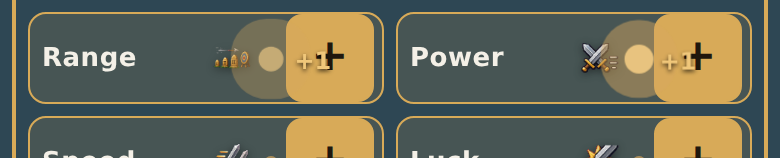
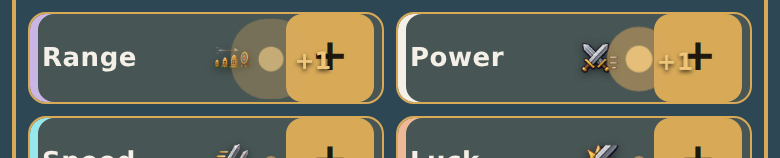
v2.3.2597: a colour per stat, carried where a pastel survives
Owner: "I'm interested to see how each cell being colored by meaning would look.
Like power is always white, range is always purple ... pastel-like colors", with
eight fixed: Power white, Range purple, HP red, MP blue, Stamina green, Defense
gray, Dodge yellow, Resist pink.  A stat's colour names the STAT, not the
weapon, so Power is the same white in Melee, Bow and Magic.

THE OTHER FIVE WERE SEARCHED, NOT PICKED.  By eye, Range and Special landed 8.5
apart on a floor of 12.  By maximin over a pastel grid (palette-opt.mjs) only
TWO of the 78 pairs fall under the floor and both are between colours the owner
fixed — Power/Defense 10.8 (white against gray) and Range/Resist 11.6 (purple
against pink).  Neither is mine to move, so both are reported rather than
re-tinted; palette-fix.mjs says what clearing them would take, and that no
single colour can do it alone.

AND IT IS NOT A CELL FILL, which is the finding that shaped the whole feature.
This UI is dark (#16262C) under near-white text, so a pastel must be composited,
and over()'s own docstring states the cost: "two colours drawn at the same alpha
over the same background keep exactly `alpha` of the distance between them".
Measured with the repo's own deltaE00 — alpha 0.50: 14 of 78 pairs under the
floor; 0.35: 31; 0.25: 41; 0.15, the alpha accentFill already uses: 70 of 78.
The palette is simply gone.  Worse, the two requirements pull opposite ways: at
[…]

diff --git a/src/data/prog3.js b/src/data/prog3.js
@@ -158,17 +158,17 @@ export const PROG3_LEGACY_ATK = {
    report.  `capsProg3Shared` rows exist only on a worker carrying the
    folded grid; `legacyOnly` rows exist only on one that does not. */
 export const PROG3_ATK_META = [
-  { key: 'range',   label: 'Range',     perText: '+0.5% reach',                        pct: true, unit: '% farther',        iconSrc: '/icons/ui/t2/bow-longshot.webp?v=2.3.2592',     capsProg3Shared: true, dpsNote: 'reach, not damage' },
-  { key: 'dmg',     label: 'Power',     perText: '+0.5 damage per hit',                unit: ' dmg',                        iconSrc: '/icons/ui/hero/dps.webp?v=2.3.2199',            capsProg3x: true },
+  { key: 'range',   label: 'Range',     perText: '+0.5% reach',                        pct: true, unit: '% farther',        iconSrc: '/icons/ui/t2/bow-longshot.webp?v=2.3.2592',     capsProg3Shared: true, dpsNote: 'reach, not damage' , tint: '#C9B6E4' },
+  { key: 'dmg',     label: 'Power',     perText: '+0.5 damage per hit',                unit: ' dmg',                        iconSrc: '/icons/ui/hero/dps.webp?v=2.3.2199',            capsProg3x: true , tint: '#F4F0E7' },
   /* Speed's points SHORTEN the swing, so its total is a reduction — the
      label below says "faster" rather than printing a negative. */
-  { key: 'aspd',    label: 'Speed',     perText: '−0.35% swing time',                  pct: true, unit: '% faster',         iconSrc: '/icons/ui/t2/sword-tempo.webp?v=2.3.1694' },
-  { key: 'luck',    label: 'Luck',      perText: '+0.3% crit chance, +1% crit damage', pct: true, unit: '% crit chance',    iconSrc: '/icons/ui/hero/crit.webp?v=2.3.1694',           capsProg3Shared: true },
-  { key: 'special', label: 'Special',   perText: '+1% special attack damage',          pct: true, unit: '% special damage', iconSrc: '/icons/ui/t2/staff-overload.webp?v=2.3.2592',   capsProg3Shared: true, dpsNote: 'special attacks only' },
+  { key: 'aspd',    label: 'Speed',     perText: '−0.35% swing time',                  pct: true, unit: '% faster',         iconSrc: '/icons/ui/t2/sword-tempo.webp?v=2.3.1694' , tint: '#97E7ED' },
+  { key: 'luck',    label: 'Luck',      perText: '+0.3% crit chance, +1% crit damage', pct: true, unit: '% crit chance',    iconSrc: '/icons/ui/hero/crit.webp?v=2.3.1694',           capsProg3Shared: true , tint: '#EDB997' },
+  { key: 'special', label: 'Special',   perText: '+1% special attack damage',          pct: true, unit: '% special damage', iconSrc: '/icons/ui/t2/staff-overload.webp?v=2.3.2592',   capsProg3Shared: true, dpsNote: 'special attacks only' , tint: '#EACDD1' },
   /* v2.3.2512: elemental power, per weapon — burns/roots/thorns and element
      collisions from THIS weapon scale off it.  The detonation drawing is
      still the closest the repo has; swap the day a dedicated icon exists. */
-  { key: 'elem',    label: 'Element',   infoKey: 'Elemental', perText: '+1 elemental power',                 unit: ' power',                      iconSrc: '/icons/ui/t2/staff-detonation.webp?v=2.3.2199', capsProg3Elem: true },
+  { key: 'elem',    label: 'Element',   infoKey: 'Elemental', perText: '+1 elemental power',                 unit: ' power',                      iconSrc: '/icons/ui/t2/staff-detonation.webp?v=2.3.2199', capsProg3Elem: true , tint: '#9D97ED' },
   /* The RETIRED pair, drawn only against a worker that has not folded them
      into Luck — that worker still rolls off crit and critDmg, so those are
      the rows it must show (rule 19).  Same copy they shipped with. */
@@ -181,6 +181,34 @@ export const PROG3_ATK_META = [
    instead of borrowing the Magic lane's staff and the Defense row's shield
    — in a column of seven, two rows sharing one picture read as one stat. */
 export const PROG3_BODY_META = [
+  /* ═══ v2.3.2597: A COLOUR PER STAT, AND WHY IT IS NOT A CELL FILL ═══
+     Owner: "I'm interested to see how each cell being colored by meaning would
+     look.  Like power is always white, range is always purple ... pastel-like
+     colors", fixing eight of them: Power white, Range purple, HP red, MP blue,
+     Stamina green, Defense gray, Dodge yellow, Resist pink.  A stat's colour
+     names the STAT, not the weapon, so Power is the same white in all three.
+
+     THE OTHER FIVE WERE SEARCHED, NOT PICKED.  Chosen by eye, Range and Special
+     landed 8.5 apart on a floor of 12; chosen by maximin over a pastel grid
+     (tools/qa/mp/palette-opt.mjs) only TWO of the 78 pairs fall under the floor
+     and both are between colours the owner fixed — Power/Defense at 10.8 (white
+     against gray) and Range/Resist at 11.6 (purple against pink).  Neither is
+     mine to move; palette-fix.mjs reports what it would take.
+
+     AND IT CANNOT BE A CELL FILL.  This UI is dark (#16262C) under near-white
+     text, so a pastel has to be composited, and over()'s own docstring says the
+     cost: "two colours drawn at the same alpha over the same background keep
+     exactly `alpha` of the distance between them".  Measured with the repo's
+     own deltaE00: at alpha 0.50, 14 of 78 pairs fall under the floor; at 0.35,
+     31; at 0.25, 41; at 0.15 — the alpha accentFill already uses — 70 of 78,
+     i.e. the palette is gone.  Worse, the two requirements pull opposite ways:
+     at 0.50 the stat title reads 1.88:1 against its cell and fails contrast,
+     while at 0.15 it passes and nothing is distinguishable.  There is no alpha
+     that satisfies both.
+     So the colour is carried at FULL STRENGTH on a SMALL AREA — a 4px spine
+     down the row, drawn as an inset shadow so it costs no width at all — and
+     the cell keeps its dark background and its legible text. */
+
   /* ═══ v2.3.2597: SHORTER LABELS, AND WHY `infoKey` EXISTS ═══
      Owner, approving a set of shortenings so every stat name is one word:
      Elem Resist -> Resist, Move Speed -> Speed, Elemental -> Element.  Half-
@@ -202,13 +230,13 @@ export const PROG3_BODY_META = [
      glossary is a global map and does not care what is on screen.
      If the two ever DO read as confusable to a player, "Haste" is the
      pre-agreed fallback for `move`. */
-  { key: 'hp',    label: 'Max HP',      perText: '+8 max HP',                    unit: ' HP',             iconSrc: '/icons/ui/hero/hp-heart.webp?v=2.3.1922' } /* v2.3.1922: plain heart */,
-  { key: 'def',   label: 'Defense',     perText: '−0.4% damage taken',           pct: true, unit: '% less damage', iconSrc: '/icons/ui/hero/defense.webp?v=2.3.1694' },
-  { key: 'mana',  label: 'Max Mana',    perText: '+2.5 max mana',                unit: ' mana',           iconSrc: '/icons/ui/hero/mana.webp?v=2.3.2592',             capsProg3Elem: true },
-  { key: 'stam',  label: 'Stamina',     perText: '+3 max stamina',               unit: ' stamina',        iconSrc: '/icons/ui/hero/stamina.webp?v=2.3.1694' },
-  { key: 'dodge', label: 'Dodge',       perText: '+0.4% dodge',                  pct: true, unit: '%',    iconSrc: '/icons/ui/hero/dodge.webp?v=2.3.1694' },
-  { key: 'move',  label: 'Speed',       infoKey: 'Move Speed', perText: '+0.4% move speed',             pct: true, unit: '% faster', iconSrc: '/icons/ui/hero/move-speed.webp?v=2.3.2592',   capsProg3Shared: true, dpsNote: 'movement, not damage' },
-  { key: 'eres',  label: 'Resist',      infoKey: 'Elem Resist', perText: '−0.4% elemental damage taken', pct: true, unit: '% less elemental', iconSrc: '/icons/ui/hero/damage-reduction.webp?v=2.3.2592', capsProg3Elem: true },
+  { key: 'hp',    label: 'Max HP',      perText: '+8 max HP',                    unit: ' HP',             iconSrc: '/icons/ui/hero/hp-heart.webp?v=2.3.1922' , tint: '#F2A6A6' } /* v2.3.1922: plain heart */,
+  { key: 'def',   label: 'Defense',     perText: '−0.4% damage taken',           pct: true, unit: '% less damage', iconSrc: '/icons/ui/hero/defense.webp?v=2.3.1694' , tint: '#C3CBCB' },
+  { key: 'mana',  label: 'Max Mana',    perText: '+2.5 max mana',                unit: ' mana',           iconSrc: '/icons/ui/hero/mana.webp?v=2.3.2592',             capsProg3Elem: true , tint: '#A6C8F0' },
+  { key: 'stam',  label: 'Stamina',     perText: '+3 max stamina',               unit: ' stamina',        iconSrc: '/icons/ui/hero/stamina.webp?v=2.3.1694' , tint: '#A9DDB4' },
+  { key: 'dodge', label: 'Dodge',       perText: '+0.4% dodge',                  pct: true, unit: '%',    iconSrc: '/icons/ui/hero/dodge.webp?v=2.3.1694' , tint: '#F0DC9A' },
+  { key: 'move',  label: 'Speed',       infoKey: 'Move Speed', perText: '+0.4% move speed',             pct: true, unit: '% faster', iconSrc: '/icons/ui/hero/move-speed.webp?v=2.3.2592',   capsProg3Shared: true, dpsNote: 'movement, not damage' , tint: '#D0ED97' },
+  { key: 'eres',  label: 'Resist',      infoKey: 'Elem Resist', perText: '−0.4% elemental damage taken', pct: true, unit: '% less elemental', iconSrc: '/icons/ui/hero/damage-reduction.webp?v=2.3.2592', capsProg3Elem: true , tint: '#F2B0D8' },
 ];
 
 /* The rows the CONNECTED worker supports, with critDmg's copy resolved

diff --git a/src/ui/mobile/sheet/HeroExpanded.jsx b/src/ui/mobile/sheet/HeroExpanded.jsx
@@ -1639,6 +1639,19 @@ export const HeroExpanded = () => {
                before (the retired NARROW_TITLE map) rather than a new
                invention.  The aria-label keeps the full stat name, so nothing a
                screen reader or a scenario reads is shortened. */
+            /* ═══ v2.3.2597: THE STAT'S COLOUR, AT FULL STRENGTH ═══
+               `?p3colour=0` turns it off, for the side-by-side the owner asked
+               for ("show the owner coloured and uncoloured versions").  On by
+               default because they asked to see it.
+               Why a 4px spine and not the cell's background: a pastel
+               composited over this dark cell loses all but `alpha` of its
+               separation — at the 0.15 accentFill already uses, 70 of the 78
+               pairs fall under the CIEDE2000 floor — and the alpha that would
+               keep them apart fails the title's contrast.  Full strength on a
+               small area is the only place both survive.  See prog3.js. */
+            const colourOn = (() => {
+              try { return !/[?&]p3colour=0\b/.test(window.location.search); } catch (e) { return true; }
+            })();
             const CARD_SHORT = { dmg: 'Power', range: 'Range', aspd: 'Speed', luck: 'Luck',
               special: 'Spec', elem: 'Elem', hp: 'HP', def: 'Def', mana: 'MP', stam: 'Stam',
               dodge: 'Dodge', move: 'Move', eres: 'Resist' };
@@ -1819,6 +1832,10 @@ export const HeroExpanded = () => {
                   background: canSpend ? COL.accentFill : COL.wellSoft,
                   border: `1px solid ${canSpend ? COL.accent : COL.tileBor}`,
                   borderRadius: 9, overflow: 'hidden',
+                  /* An INSET shadow, not a border: it costs no width, which
+                     matters in a 163px half-width cell where the label already
+                     has only 64px. */
+                  boxShadow: (colourOn && st.tint) ? `inset 4px 0 0 ${st.tint}` : undefined,
                 }}>
                   <span style={{
                     flex: 1, minWidth: 0,
